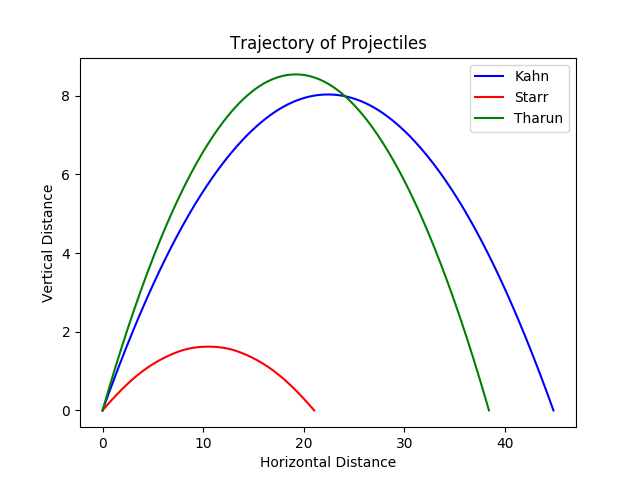
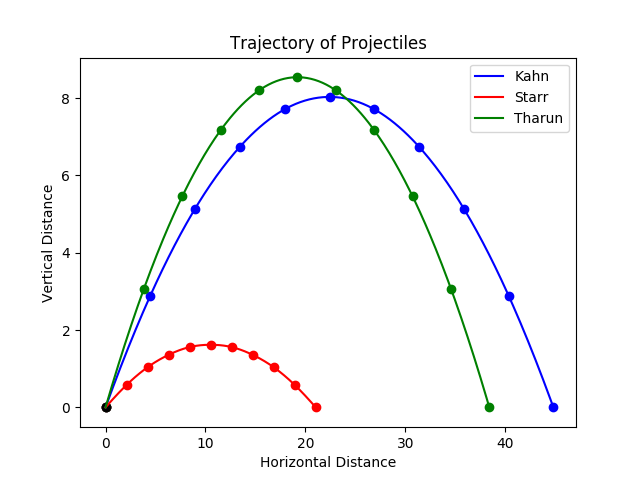
Points

diff --git a/SmallQuestions/physics_graph.py b/SmallQuestions/physics_graph.py
@@ -19,9 +19,13 @@ def plot(x1, y1, color, label):
 plt.title("Trajectory of Projectiles")
 plt.xlabel("Horizontal Distance")
 plt.ylabel("Vertical Distance")
+plt.scatter(x1, y1, color="b")
+plt.scatter(x2, y2, color="r")
+plt.scatter(x3, y3, color="g")
 plot(x1, y1, color="b", label="Kahn")
 plot(x2, y2, color="r", label="Starr")
 plot(x3, y3, color="g", label="Tharun")
 plt.legend(loc="upper right")
+plt.scatter([0], [0], color="black")
 plt.savefig("trajec.png")
 plt.show()
